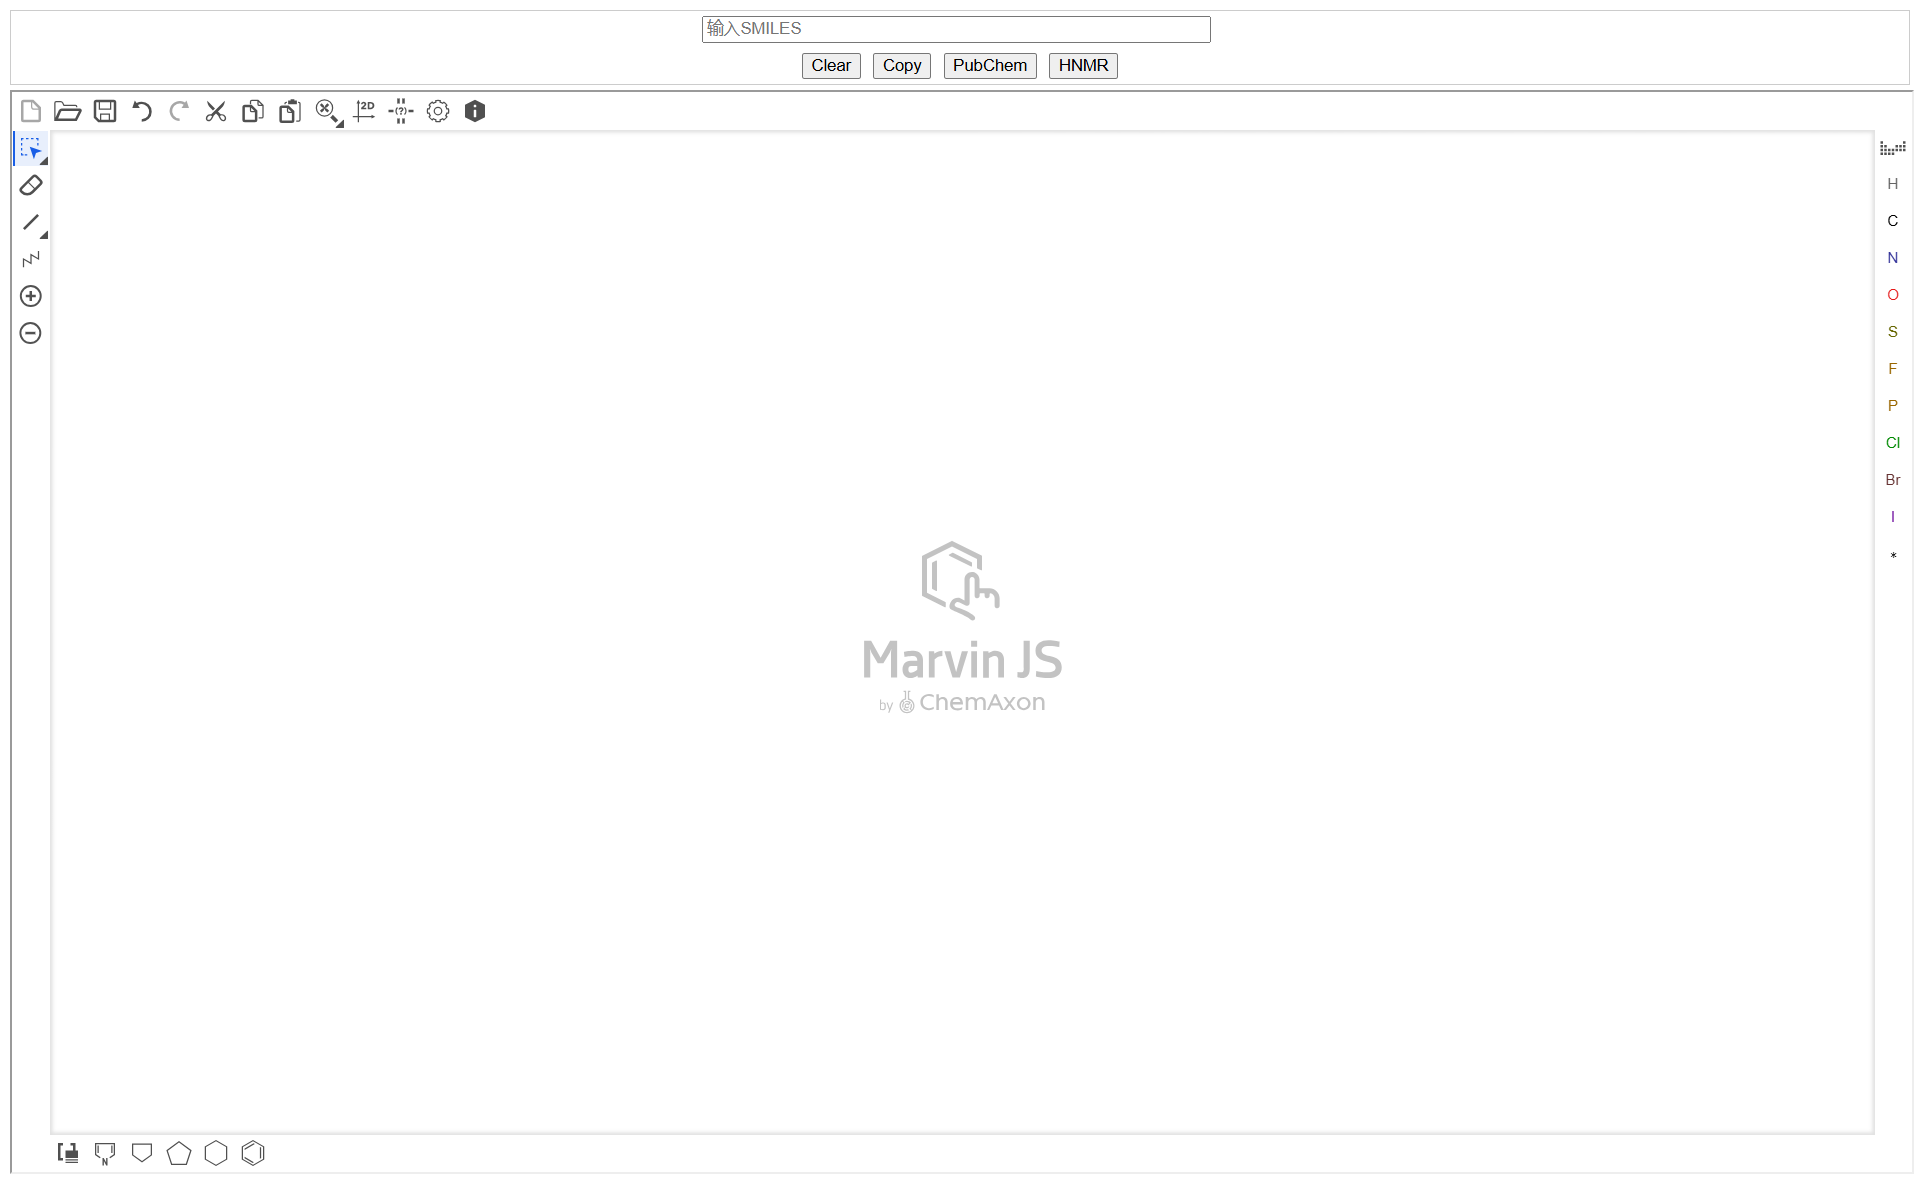
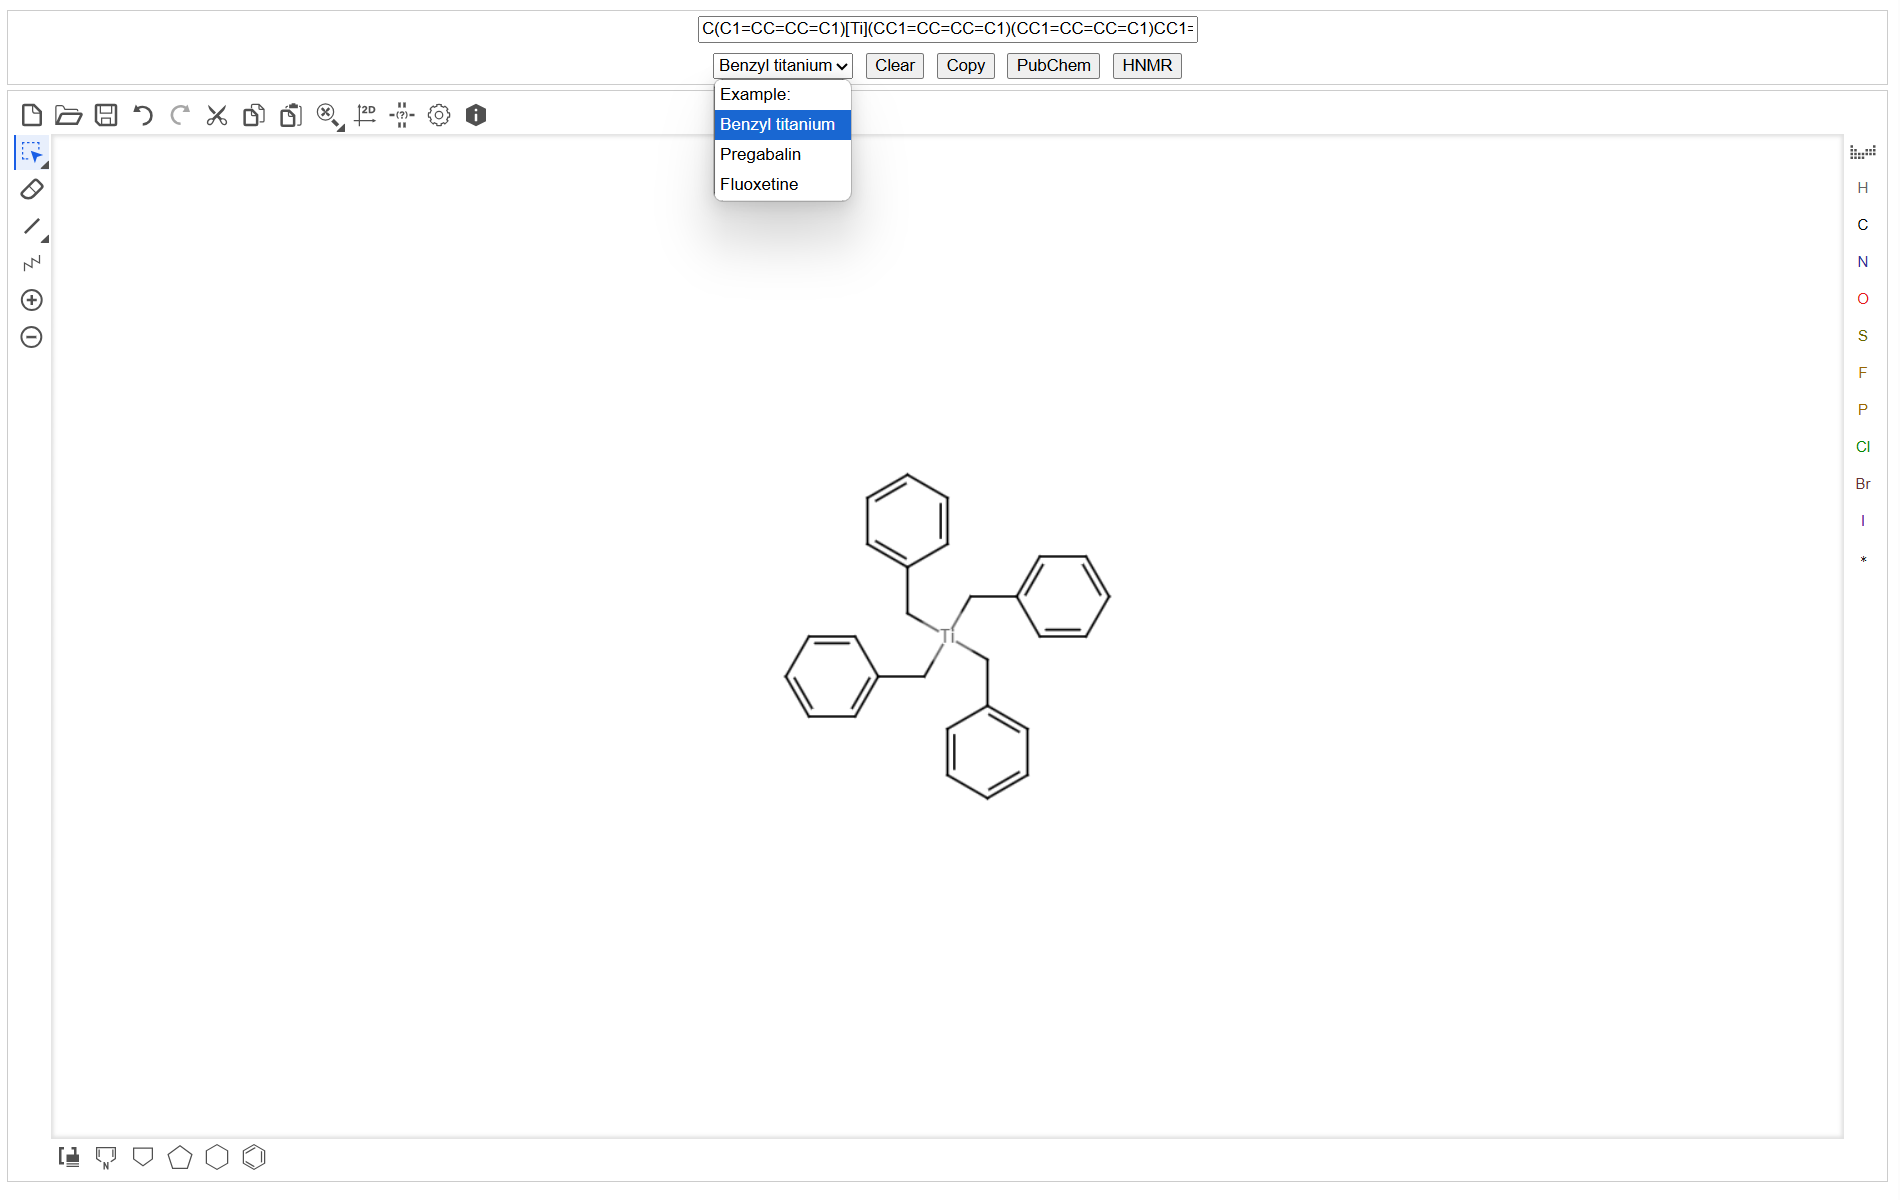
update md

diff --git a/README.md b/README.md
@@ -5,3 +5,10 @@
 - smiles与结构式互相转换
 - PubChem搜索
 - HNMR搜索
+
+## 新增
+
+- Example:
+    - Benzyl titanium
+    - Pregabalin
+    - Fluoxetine 
